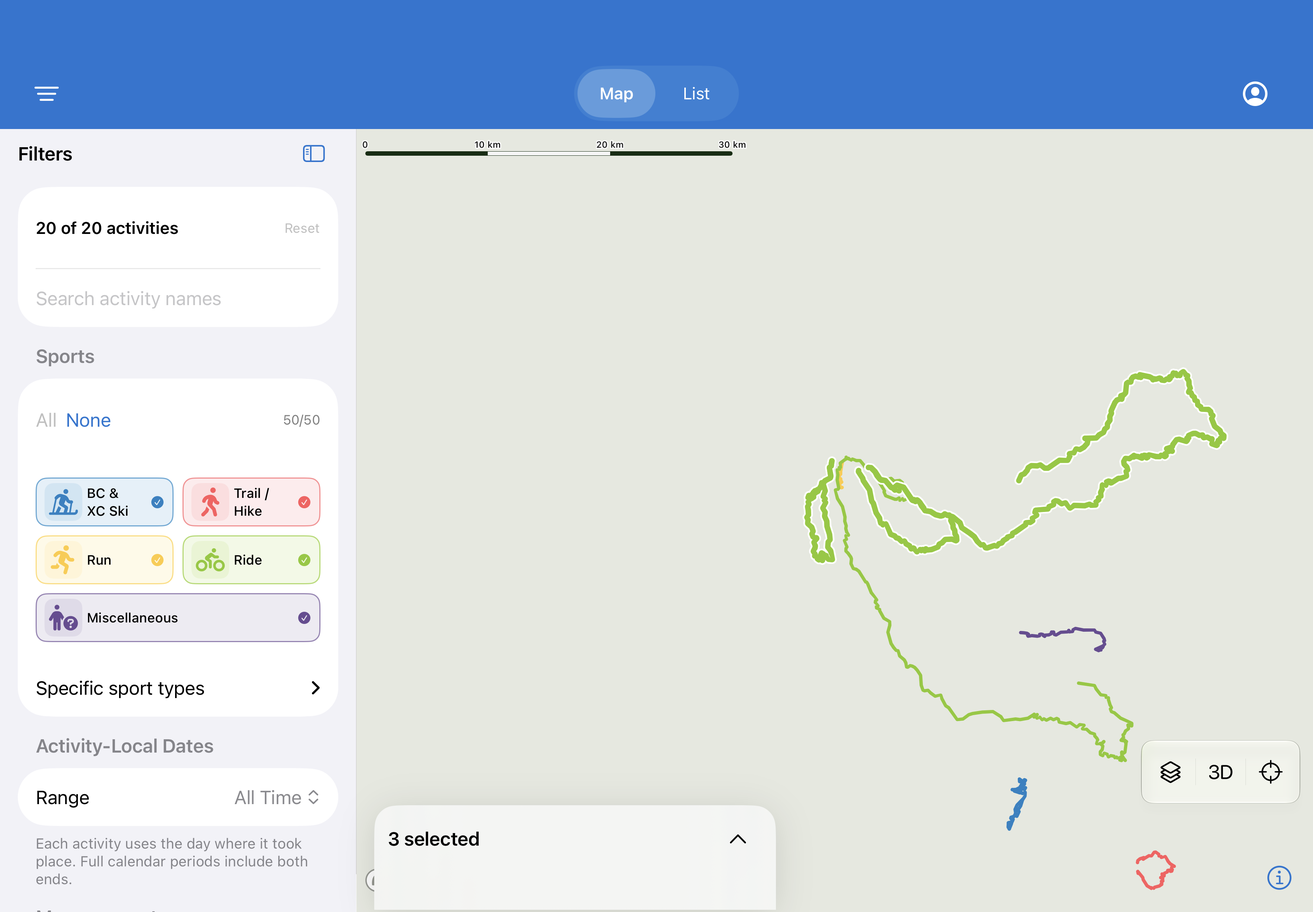
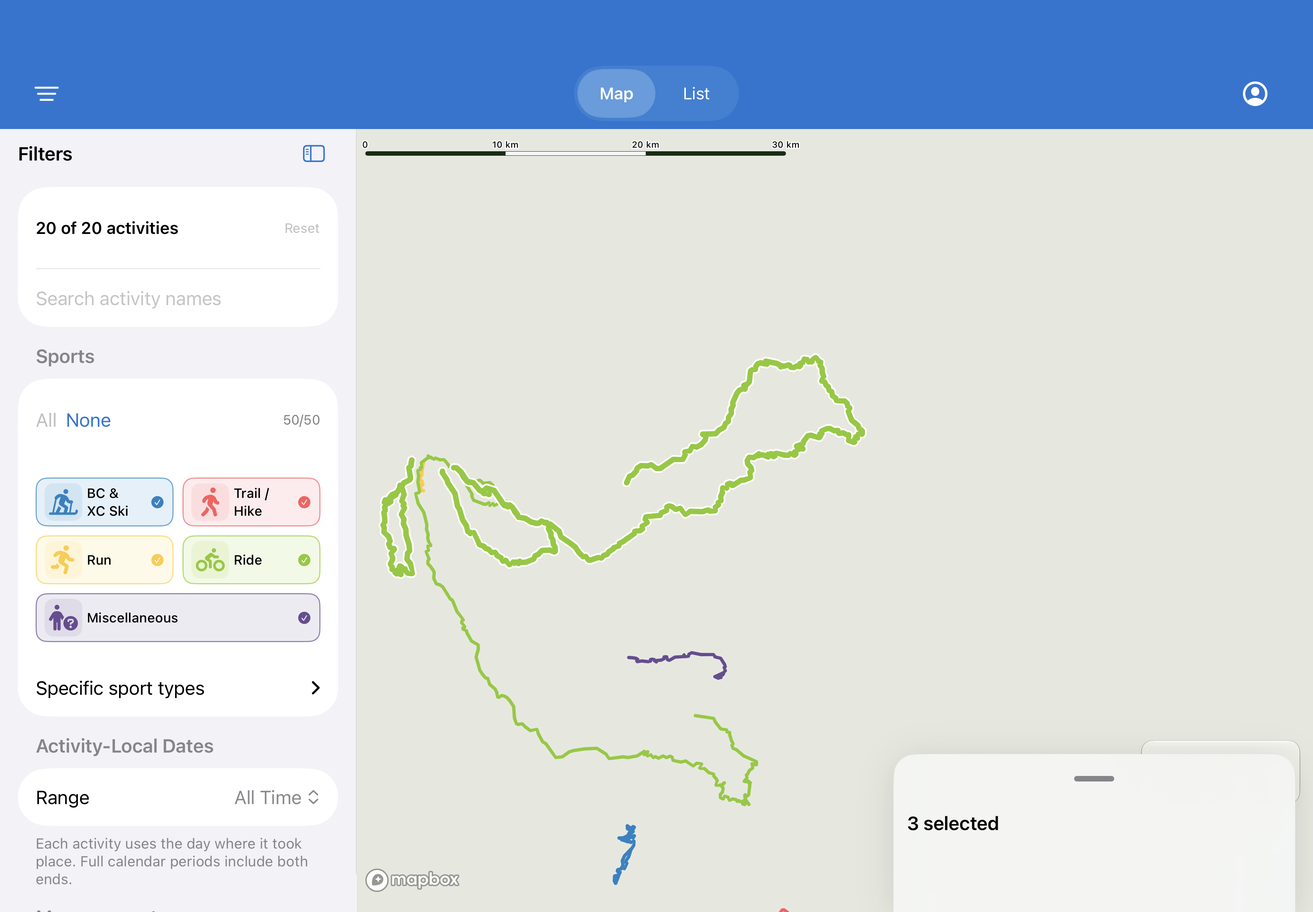
Use a bottom-right drag handle for wide map results

diff --git a/ios/ActivityMap/ActivityMap/Map/MapResultsContainer.swift b/ios/ActivityMap/ActivityMap/Map/MapResultsContainer.swift
@@ -1,6 +1,6 @@
 import SwiftUI
 
-/// Phones use the native sheet. Wide windows use a bottom-leading card; expanding
+/// Phones use the native sheet. Wide windows use a bottom-trailing panel; expanding
 /// the card never changes selection, scroll context or the map camera.
 struct MapResultsContainer: View {
     @Bindable var picker: RoutePicker
@@ -10,21 +10,61 @@ struct MapResultsContainer: View {
     let bottomInset: CGFloat
     let largeText: Bool
     @Environment(\.accessibilityReduceMotion) private var reduceMotion
+    @GestureState private var dragTranslation: CGFloat? = nil
 
     var body: some View {
         let layout = MapResultsLayout(size: size, topInset: topInset, bottomInset: bottomInset,
                                       detent: picker.detent, largeText: largeText)
         if layout.isSidePanel {
             if picker.isPresented {
-                RoutePickerSheet(picker: picker, store: store, isSidePanel: true, bottomInset: bottomInset)
-                    .frame(width: layout.frame.width, height: layout.frame.height)
-                    .position(x: layout.frame.midX, y: layout.frame.midY)
+                let compact = MapResultsLayout(size: size, topInset: topInset, bottomInset: bottomInset,
+                    detent: .compact, largeText: largeText).contentHeight
+                let expanded = MapResultsLayout(size: size, topInset: topInset, bottomInset: bottomInset,
+                    detent: .expanded, largeText: largeText).contentHeight
+                let height = MapResultsSnap.height(start: layout.contentHeight,
+                    translation: dragTranslation ?? 0, compact: compact, expanded: expanded)
+                RoutePickerSheet(picker: picker, store: store, isSidePanel: true, bottomInset: bottomInset,
+                    collapsedOverride: height <= compact + 1,
+                    panelHandle: AnyView(handle(start: layout.contentHeight, compact: compact, expanded: expanded)))
+                    .frame(width: layout.frame.width, height: height + bottomInset)
+                    .position(x: layout.frame.midX, y: size.height - height / 2 + bottomInset / 2)
                     .animation(reduceMotion ? nil : .easeInOut(duration: 0.2), value: picker.detent)
+                    .animation(reduceMotion ? nil : .easeInOut(duration: 0.2), value: dragTranslation == nil)
+                    .transaction { if dragTranslation != nil { $0.animation = nil } }
             }
         } else {
             NativeMapResultsSheet(picker: picker, store: store, size: size, largeText: largeText)
         }
     }
+
+    private func handle(start: CGFloat, compact: CGFloat, expanded: CGFloat) -> some View {
+        Capsule().fill(.secondary).frame(width: 36, height: 5)
+            .frame(maxWidth: .infinity).frame(height: 44)
+            .contentShape(Rectangle())
+            .gesture(DragGesture(minimumDistance: 3)
+                .updating($dragTranslation) { value, state, _ in state = value.translation.height }
+                .onEnded { value in
+                    picker.detent = MapResultsSnap.target(start: start,
+                        predictedTranslation: value.predictedEndTranslation.height,
+                        compact: compact, expanded: expanded)
+                })
+            .onTapGesture { picker.detent = picker.detent == .compact ? .expanded : .compact }
+            .accessibilityElement()
+            .accessibilityLabel("Results panel")
+            .accessibilityValue(picker.detent == .compact ? "Collapsed" : "Expanded")
+            .accessibilityHint("Drag up to expand or down to collapse")
+            .accessibilityIdentifier("map-results-handle")
+            .accessibilityAdjustableAction { direction in
+                switch direction {
+                case .increment: picker.detent = .expanded
+                case .decrement: picker.detent = .compact
+                @unknown default: break
+                }
+            }
+            .accessibilityAction(named: "Expand results") { picker.detent = .expanded }
+            .accessibilityAction(named: "Collapse results") { picker.detent = .compact }
+    }
+
 }
 
 private struct MapResultsPresentationChangedKey: EnvironmentKey {

diff --git a/ios/ActivityMap/ActivityMapTests/MapResultsTests.swift b/ios/ActivityMap/ActivityMapTests/MapResultsTests.swift
@@ -43,6 +43,16 @@ struct MapResultsTests {
         #expect(!picker.isPresented && picker.detailID == nil && picker.candidateIDs.isEmpty)
     }
 
+    @Test func dragSnapsFromBothRestingPositionsAndClampsOvershoot() {
+        #expect(MapResultsSnap.height(start: 108, translation: 500, compact: 108, expanded: 700) == 108)
+        #expect(MapResultsSnap.height(start: 700, translation: -500, compact: 108, expanded: 700) == 700)
+        #expect(MapResultsSnap.height(start: 700, translation: 100, compact: 108, expanded: 700) == 600)
+        #expect(MapResultsSnap.target(start: 108, predictedTranslation: -450, compact: 108, expanded: 700) == .expanded)
+        #expect(MapResultsSnap.target(start: 700, predictedTranslation: 450, compact: 108, expanded: 700) == .compact)
+        #expect(MapResultsSnap.target(start: 700, predictedTranslation: 40, compact: 108, expanded: 700) == .expanded)
+        #expect(MapResultsSnap.target(start: 108, predictedTranslation: -40, compact: 108, expanded: 700) == .compact)
+    }
+
     @Test func hiddenSelectionIsDisclosedWithoutReactivatingAfterFilterReset() {
         let store = ActivityStore(activities: [ActivityStoreSelectionTests.activity(1, sport: .ride)])
         let picker = RoutePicker()
@@ -67,7 +77,8 @@ struct MapResultsTests {
                 }
                 #expect(layouts[0].contentHeight < layouts[1].contentHeight)
                 #expect(layouts[1].frame == layouts[2].frame)
-                #expect(layouts.allSatisfy { $0.bottomOcclusion == 0 && $0.leadingOcclusion == layouts[0].leadingOcclusion })
+                #expect(layouts.allSatisfy { abs($0.frame.maxX - (size.width - 16)) < 0.01 })
+                #expect(layouts.allSatisfy { $0.bottomOcclusion == 0 && $0.trailingOcclusion == layouts[0].trailingOcclusion })
                 #expect(layouts.allSatisfy { $0.frame.maxY == size.height + 21 }, "Both states meet the physical bottom edge through the safe area")
                 #expect(layouts[0].frame.minY > layouts[1].frame.minY, "Expansion moves the top edge upward")
                 let fit = MapResultsLayout.framing(size: size, topInset: 44, bottomInset: 21, detent: .compact, largeText: largeText)
@@ -96,11 +107,11 @@ struct MapResultsTests {
             #expect(layout.frame.minY >= 118 && layout.frame.maxY <= size.height + 34)
             #expect(layout.frame.minX >= (layout.isSidePanel ? 12 : 4) && layout.frame.maxX <= size.width)
             if layout.isSidePanel {
-                #expect(layout.leadingOcclusion + 16 < size.width / 2)
+                #expect(layout.trailingOcclusion + 16 < size.width / 2)
                 #expect(layout.bottomOcclusion == 0)
             } else {
                 #expect(layout.frame.minY >= 118, "Expanded results leave navigation clear")
-                #expect(layout.leadingOcclusion == 0)
+                #expect(layout.trailingOcclusion == 0)
             }
         }
     }

diff --git a/ios/ActivityMap/ActivityMap/Map/RoutePickerSheet.swift b/ios/ActivityMap/ActivityMap/Map/RoutePickerSheet.swift
@@ -7,6 +7,7 @@ struct RoutePickerSheet: View {
     let isSidePanel: Bool
     var bottomInset: CGFloat = 0
     var collapsedOverride: Bool? = nil
+    var panelHandle: AnyView? = nil
     private var expansion: CGFloat { collapsed ? 0 : 1 }
     private var contentReveal: CGFloat { expansion }
     var nativePresentation = false
@@ -22,7 +23,10 @@ struct RoutePickerSheet: View {
     private var singleDetail: Bool { detail != nil && candidates.count == 1 }
     var body: some View {
         VStack(spacing: 0) {
-            if isSidePanel { sidePanelHeader } else { header }
+            if isSidePanel {
+                panelHandle
+                if !singleDetail || collapsed { sidePanelHeader }
+            } else { header }
             if detail == nil && !isSidePanel {
                 compactSummary
                     .opacity(max(0, 1 - expansion * 4))
@@ -52,6 +56,7 @@ struct RoutePickerSheet: View {
         }
         // One continuous detail surface; only the outer host owns corners.
         .padding(.bottom, bottomInset)
+        .frame(maxHeight: .infinity, alignment: .top)
         .background { if !nativePresentation { Rectangle().fill(.regularMaterial) } }
         .clipShape(UnevenRoundedRectangle(topLeadingRadius: isSidePanel ? 20 : 28,
             bottomLeadingRadius: 0, bottomTrailingRadius: 0,
@@ -99,17 +104,6 @@ struct RoutePickerSheet: View {
                 Spacer(minLength: 0)
                 if candidates.count > 1, let detail { detailNavigation(detail) }
             }
-            Button { resize(to: collapsed ? .expanded : .compact) } label: {
-                Image(systemName: collapsed ? "chevron.up" : "chevron.down")
-                    .frame(width: 44, height: 44)
-                    .contentShape(Rectangle())
-            }
-            .buttonStyle(.plain)
-            .accessibilityLabel(collapsed ? "Expand results" : "Collapse results")
-            .accessibilityValue(collapsed ? "Collapsed" : "Expanded")
-            .accessibilityIdentifier("map-results-toggle")
-            .accessibilityAction(named: "Expand results") { resize(to: .expanded) }
-            .accessibilityAction(named: "Collapse results") { resize(to: .compact) }
             if detail == nil && !collapsed { selectionActions }
         }
         .padding(.horizontal, 12).padding(.vertical, 8)

diff --git a/ios/ActivityMap/ActivityMapTests/RenderedMapContextTests.swift b/ios/ActivityMap/ActivityMapTests/RenderedMapContextTests.swift
@@ -257,7 +257,8 @@ extension RenderedRoutePickingTests {
         #expect(abs(list.contentOffset.y - offset) < 1)
     }
 
-    @Test func fixedPanelFitsBesideRoutesInTheWideShell() async throws {
+    @Test(arguments: [false, true])
+    func fixedPanelFitsBesideRoutesInTheWideShell(single: Bool) async throws {
         let oldToken = MapboxOptions.accessToken
         MapboxOptions.accessToken = "pk.offline-test"
         defer { MapboxOptions.accessToken = oldToken }
@@ -284,14 +285,14 @@ extension RenderedRoutePickingTests {
         try await cameraWait { descendants(host.view, of: MapView.self).first?.mapboxMap.isStyleLoaded == true }
         let map = try #require(descendants(host.view, of: MapView.self).first)
         #expect(map.bounds.width >= 650)
-        store.replaceSelection(with: [20279947341, 20270725942, 20244330171])
+        store.replaceSelection(with: single ? [20279947341] : [20279947341, 20270725942, 20244330171])
         picker.reviewSelection(store: store)
         picker.detent = .expanded
         store.mapContext.request(.fitSelection)
         try await cameraWait { store.mapContext.pendingRequest == nil }
         try await Task.sleep(for: .milliseconds(500))
         let camera = map.mapboxMap.cameraState
-        #expect(camera.padding.left > 300, "Framing reserves the actual edge panel")
+        #expect(camera.padding.right > 300, "Framing reserves the actual edge panel")
         #expect(host.presentedViewController == nil, "Wide results remain at the map edge")
         let directory = URL(fileURLWithPath: "/tmp/activitymap-navigation-preview")
         try FileManager.default.createDirectory(at: directory, withIntermediateDirectories: true)
@@ -304,7 +305,7 @@ extension RenderedRoutePickingTests {
             let image = UIGraphicsImageRenderer(bounds: host.view.bounds).image { _ in
                 host.view.drawHierarchy(in: host.view.bounds, afterScreenUpdates: true)
             }
-            try image.pngData()?.write(to: directory.appendingPathComponent("wide-shell-\(detent == .compact ? "collapsed" : "expanded").png"))
+            try image.pngData()?.write(to: directory.appendingPathComponent("wide-shell-\(single ? "single-" : "")\(detent == .compact ? "collapsed" : "expanded").png"))
         }
     }
 }

diff --git a/ios/ActivityMap/ActivityMap/Map/MapResultsLayout.swift b/ios/ActivityMap/ActivityMap/Map/MapResultsLayout.swift
@@ -10,7 +10,7 @@ struct MapResultsLayout {
     let contentHeight: CGFloat
     let frame: CGRect
     let bottomOcclusion: CGFloat
-    let leadingOcclusion: CGFloat
+    let trailingOcclusion: CGFloat
 
     /// Explicit fits leave room to reveal normal detail after a compact fit.
     /// Resizing itself never changes the camera or queues another fit.
@@ -33,7 +33,7 @@ struct MapResultsLayout {
         // bottom edge behind this panel instead of reserving another top row.
         let top = topInset + 12
         let available = max(120, size.height - top - (isSidePanel ? 0 : 12))
-        let compact = min(available, isSidePanel ? (largeText ? 116 : 64) : (largeText ? 240 : 156))
+        let compact = min(available, isSidePanel ? (largeText ? 160 : 108) : (largeText ? 240 : 156))
         let height: CGFloat
         switch detent {
         case .compact: height = compact
@@ -43,9 +43,21 @@ struct MapResultsLayout {
         contentHeight = height
         // Both hosts rise from the bottom. On wide maps the lower edge stays
         // anchored while the header moves upward to reveal the results.
-        frame = CGRect(x: isSidePanel ? 16 : 4, y: size.height - contentHeight,
+        frame = CGRect(x: isSidePanel ? max(0, size.width - width - 16) : 4, y: size.height - contentHeight,
                        width: width, height: contentHeight + bottomInset)
         bottomOcclusion = isSidePanel ? 0 : contentHeight + bottomInset
-        leadingOcclusion = isSidePanel ? frame.maxX + 12 : 0
+        trailingOcclusion = isSidePanel ? size.width - frame.minX + 12 : 0
+    }
+}
+
+/// Drag distance is measured from the current resting height, including when
+/// starting expanded. Predicted movement lets a short flick reach a snap point.
+enum MapResultsSnap {
+    static func height(start: CGFloat, translation: CGFloat, compact: CGFloat, expanded: CGFloat) -> CGFloat {
+        min(expanded, max(compact, start - translation))
+    }
+    static func target(start: CGFloat, predictedTranslation: CGFloat, compact: CGFloat, expanded: CGFloat) -> MapResultsDetent {
+        height(start: start, translation: predictedTranslation, compact: compact, expanded: expanded)
+            < (compact + expanded) / 2 ? .compact : .expanded
     }
 }

diff --git a/ios/ActivityMap/ActivityMap/Map/RouteCameraFitter.swift b/ios/ActivityMap/ActivityMap/Map/RouteCameraFitter.swift
@@ -50,9 +50,9 @@ struct RouteExtent {
 
 enum RouteCameraFitter {
     static func padding(safeArea: UIEdgeInsets, sheetHeight: CGFloat, topOcclusion: CGFloat = 0,
-                        leadingOcclusion: CGFloat = 0) -> UIEdgeInsets {
+                        leadingOcclusion: CGFloat = 0, trailingOcclusion: CGFloat = 0) -> UIEdgeInsets {
         UIEdgeInsets(top: max(safeArea.top + 64, topOcclusion + 16), left: max(safeArea.left + 24, leadingOcclusion + 16),
-                     bottom: max(safeArea.bottom + 80, sheetHeight + 24), right: safeArea.right + 80)
+                     bottom: max(safeArea.bottom + 80, sheetHeight + 24), right: max(safeArea.right + 80, trailingOcclusion + 16))
     }
 
     static func camera(extent: RouteExtent, map: MapboxMap, padding: UIEdgeInsets, size: CGSize,
@@ -82,7 +82,7 @@ enum RouteCameraFitter {
 enum MapNavigation {
     static func resolve(store: ActivityStore, map: MapboxMap, size: CGSize,
                         safeArea: UIEdgeInsets, sheetHeight: CGFloat, topOcclusion: CGFloat = 0,
-                        leadingOcclusion: CGFloat = 0) -> CameraOptions? {
+                        leadingOcclusion: CGFloat = 0, trailingOcclusion: CGFloat = 0) -> CameraOptions? {
         let context = store.mapContext
         guard let request = context.pendingRequest, map.isStyleLoaded,
               size.width > 0, size.height > 0 else { return nil }
@@ -123,7 +123,7 @@ enum MapNavigation {
             context.consume(request); return nil
         }
         let padding = RouteCameraFitter.padding(safeArea: safeArea, sheetHeight: sheetHeight, topOcclusion: topOcclusion,
-                                                leadingOcclusion: leadingOcclusion)
+                                                leadingOcclusion: leadingOcclusion, trailingOcclusion: trailingOcclusion)
         // Wait if the remaining viewport is unusable. The visible rectangle
         // may sit entirely above the physical map center (e.g. a medium sheet).
         guard size.width - padding.left - padding.right >= 80,

diff --git a/ios/ActivityMap/ActivityMap/Map/MapScreen.swift b/ios/ActivityMap/ActivityMap/Map/MapScreen.swift
@@ -182,7 +182,7 @@ struct MapScreen: View {
             // Fit above the panel; background controls and credits add no occlusion.
             sheetHeight: showingResults && !layout.isSidePanel
                 ? max(layout.bottomOcclusion, NativeMapResultsSizing.openingHeight(count: picker.candidateIDs.count, detail: picker.detailID != nil, height: geometry.size.height, largeText: typeSize.isAccessibilitySize) + safeArea.bottom) : 0, topOcclusion: topOcclusion,
-            leadingOcclusion: showingResults && layout.isSidePanel ? layout.leadingOcclusion + safeArea.leading : 0
+            trailingOcclusion: showingResults && layout.isSidePanel ? layout.trailingOcclusion + safeArea.trailing : 0
         ) else { return }
         let padding = camera.padding ?? context.camera.padding
         let target = Viewport.camera(center: camera.center, zoom: camera.zoom, bearing: camera.bearing, pitch: camera.pitch)

diff --git a/ios/ActivityMap/ActivityMapTests/RenderedMapResultsTests.swift b/ios/ActivityMap/ActivityMapTests/RenderedMapResultsTests.swift
@@ -87,7 +87,7 @@ extension RenderedRoutePickingTests {
             let points = map.mapboxMap.points(for: activities[0].coordinates)
             let layout = MapResultsLayout(size: host.view.bounds.size, topInset: 62, bottomInset: host.view.safeAreaInsets.bottom, detent: .compact)
             if layout.isSidePanel {
-                #expect(points.allSatisfy { $0.x > layout.frame.maxX })
+                #expect(points.allSatisfy { $0.x < layout.frame.minX }, "Fit must leave routes to the left of the right-hand panel")
             } else {
                 #expect(points.allSatisfy { $0.y < layout.frame.minY - 16 }, "Fit must leave routes above the panel")
             }

diff --git a/docs/ios-navigation-identity-review.md b/docs/ios-navigation-identity-review.md
@@ -2,16 +2,16 @@
 
 Review for #254, #272 and #279, captured on 2026-10-03.
 
-The branch compacts the shared filter editor, adds the retained Stats destination/filter handoff, unifies brand and selection styling, and replaces wide-map custom dragging with an explicit bottom-leading panel.
+The branch compacts the shared filter editor, adds the retained Stats destination/filter handoff, unifies brand and selection styling, and replaces wide-map custom dragging with an explicit bottom-right panel.
 
 ## Decisions and scope
 
 - **#254:** keep the current single top destination control from #278; remove the unused older header/sidebar view. Search and count/reset share one section. Compact-height and accessibility filter presentations have full height and an explicit Done action. The shared editor retains all existing predicates, range validation and reset semantics.
 - **Stats handoff:** #263 registers real content with `AppShell(statsContent:)`. Only registration exposes Stats; the production app continues to offer Map/List. Registered content stays mounted with map/list and resets on account scope changes. Stats uses the existing non-date predicates and engine count, shows tile-period context and saved browsing dates, and resets non-date filters without deleting those dates.
 - **#272:** use #1976D2 as the brand blue, with #90CAF9 foregrounds on dark surfaces. The global accent asset now also styles native controls. Shared sport badges retain category glyphs/colors; selected rows add checkmarks and restrained blue surfaces, with a leading mark in List. Independent inspection does not select a row.
-- **#279:** the owner chose the bottom-leading panel with collapse/expand on 2026-10-03. Wide-map medium/expanded states both use full available height; compact shows the header at the bottom-left. The panel extends through the bottom safe area, with square lower corners and inset content; its bottom stays anchored at the physical bottom edge while expansion moves the top upward. The owner refined the placement after reviewing screenshots; collapse/expand controls remain, with upward/downward chevrons and a Reduce Motion-aware transition. A 44pt button and named accessibility actions replace custom dragging. Scroll, detail/page identity, selection and camera are retained. Explicit fits reserve the full leading footprint; collapse/expand do not refit.
+- **#279:** the owner refined the design to a bottom-right, edge-attached draggable panel on 2026-10-03. It has square lower corners and rounded top corners, with content inset above the home indicator. A 44pt handle tracks vertical dragging and snaps between collapsed and expanded heights, using predicted movement for flicks. There is no expand button; the handle supports tap, VoiceOver adjustment and named expand/collapse actions. Medium/expanded model states both use full available height. Dragging starts from the current height, clamps overshoot, and resets when cancelled. Results/detail remain mounted and the camera does not refit during resizing. Explicit fits reserve the trailing footprint. Layer controls remain in their existing position for their separate issue.
 
-Host choice still uses the **available map viewport**, not the device name: ≥650pt width or landscape uses the bottom-leading card. A portrait iPad with the 320pt Filters sidebar open can leave a narrow map that uses the native sheet. No centered native sheet replaces the existing wide edge layout.
+Host choice still uses the **available map viewport**, not the device name: ≥650pt width or landscape uses the bottom-right card. A portrait iPad with the 320pt Filters sidebar open can leave a narrow map that uses the native sheet. No centered native sheet replaces the existing wide edge layout.
 
 The original native-tab-bar design and acceptance of the remaining #278 shell/filter drafts are not claimed complete here. The working Stats dashboard remains #263. Phone collapsed-summary and transition refinements remain #285/#284; map-control placement remains #282. Physical-device touch/VoiceOver acceptance remains #228.
 
@@ -31,17 +31,23 @@ Captured with Xcode 27.0 / iOS 27.0 Simulator on iPhone 18 Pro. Configured host 
 
 The Filters gallery scene renders editor content directly; it does not demonstrate the shell's Done button or modal animation. The rendered compact-height shell regression covers presentation/dismissal separately.
 
+Single selection opens activity details directly. The following single-activity captures use the same shell and fixture.
+
+| Expanded | Collapsed |
+| --- | --- |
+| ![Single activity expanded](ios-navigation-identity/wide-shell-single-expanded.png) | ![Single activity collapsed](ios-navigation-identity/wide-shell-single-collapsed.png) |
+
 The 1180×820 production shell with Filters open leaves an 860pt map and uses the fixed panel. These synthetic-window captures exercise the actual shell, route renderer and camera fit, then collapse without changing the camera:
 
 | Expanded | Collapsed |
 | --- | --- |
 | ![Wide shell expanded](ios-navigation-identity/wide-shell-expanded.png) | ![Wide shell collapsed](ios-navigation-identity/wide-shell-collapsed.png) |
 
[2 lines of base64/hex data omitted]
 
 ## Validation
 
-Final run: **217 tests passed (345 parameterized runs), zero failures, two opt-in tests skipped** on iPhone 18 Pro / iOS 27.0 Simulator. Result bundle: `/tmp/activitymap-navigation-build/Logs/Test/Test-ActivityMap-2026.10.03_08-23-19-+0200.xcresult`. Both 20-capture galleries validated successfully. `git diff --check` passes.
+Final run: **218 tests passed (347 parameterized runs), zero failures, two opt-in tests skipped** on iPhone 18 Pro / iOS 27.0 Simulator. Result bundle: `/tmp/activitymap-navigation-build/Logs/Test/Test-ActivityMap-2026.10.03_08-35-57-+0200.xcresult`. Both 20-capture galleries validated successfully. `git diff --check` passes.
 
 Run the complete simulator suite:
 
@@ -51,7 +57,7 @@ xcodebuild test -project ios/ActivityMap/ActivityMap.xcodeproj \
   -parallel-testing-enabled NO CODE_SIGNING_ALLOWED=NO
 ```
 
-Coverage includes fixed-panel collapse/page retention in tablet, landscape and large text; stable camera occlusion; shared filter reset and saved dates; actual retained map renderer/List scroll/Stats scroll through the shell; full filter predicates and existing detail/selection behavior. Custom drag/reveal-only tests were removed with their implementation.
+Coverage includes drag snap prediction/clamping, right-side camera fitting, single-activity capture, and panel collapse/page retention in tablet, landscape and large text; stable camera occlusion; shared filter reset and saved dates; actual retained map renderer/List scroll/Stats scroll through the shell; full filter predicates and existing detail/selection behavior. The previous drag/reveal tests were removed with that implementation; the current two-position handle has dedicated snap tests.
 
 The existing 2,000-row List round-trip test now waits for adjacent-detail width and lazy row-height estimates to settle before recording its offset. It still asserts exact offset retention after switching destinations. The former fixed 200ms wait intermittently sampled the layout correction itself.
 

diff --git a/docs/ios-ui-components.md b/docs/ios-ui-components.md
@@ -5,7 +5,7 @@
 - The single top destination control from #278 remains in use. `AppShell(statsContent:)` registers a real `BrowseStatsDestination` for #263; without it, no Stats button appears. `BrowseContent` retains all registered destinations and resets their identity on account/deployment scope changes.
 - `FilterPanel(scope:)` reuses the same editors for browsing and Stats. Stats uses the engine’s non-date count, excludes browsing dates from active-filter feedback, and routes Reset through `resetStatsActivityFilters`. Its period explanation discloses saved browsing dates without applying them. Search/count/reset share a compact section. The shell supplies a Done button and a full-height presentation for landscape phones and accessibility text.
 - `AccentColor` is the global system tint and explicit selection accent: #1976D2 on light surfaces, #90CAF9 on dark surfaces. The navigation background remains #1976D2. Shared sport badges have 26pt symbols within 34pt softly tinted shapes. Selected List rows add a leading mark and a checkmark; Map results retain a checkmark and separate active-route label. Inspection remains independent.
-- The approved wide-screen behavior is a bottom-leading panel with explicit collapse/expand, not a draggable panel. Portrait phones retain their system sheet. See Map results and detail below.
+- The approved wide-screen behavior is a bottom-right, edge-attached panel with a draggable handle, two snap positions and no expand button. Portrait phones retain their system sheet. See Map results and detail below.
 - The unused HeaderBar and FilterSidebar view wrapper are removed. The sidebar environment value remains the List detail-host input.
 
 The original component and capture notes below are historical where explicitly marked. Continuous-drag captures and regressions describe the removed implementation; current evidence is recorded in `docs/ios-navigation-identity-review.md`.
@@ -57,7 +57,7 @@ Map results navigate to the same detail panel and fixed actions in one continuou
 Two hosts present this content (`MapResultsContainer`):
 
 - **Phone portrait — native sheet (draft, #278).** `NativeMapResultsSheet` presents `RoutePickerSheet` with system detents (collapsed summary, content-aware opening height, `.large`), a visible drag indicator, background interaction up through large, and interactive dismissal disabled. See [Native phone map sheet draft](#native-phone-map-sheet-draft). The custom handle is not mounted in this host.
-- **Wide/landscape — bottom-leading panel (#279).** Used when the map is ≥650pt wide or landscape. A 44pt button collapses to a bottom-left header or expands upward to the full available height. Both states share the same bottom edge, at the physical bottom edge, with a Reduce Motion-aware transition. Medium and expanded model detents both mean full height on this host. The custom MapResultsHandle, MapResultsDrag, resize state, interpolation and their obsolete regression tests are removed. Results and detail pages remain mounted, including their scroll/paging context. Camera fits retain the same leading occlusion across collapse/expand, and changing height never emits a camera request. The owner selected this option on 2026-10-03.
+- **Wide/landscape — bottom-right panel (#279).** Used when the map is ≥650pt wide or landscape. A 44pt drag handle collapses to a header or expands upward to the full available height. It supports tapping, VoiceOver adjustment and named actions; no separate expand button is shown. Both states extend to the physical bottom edge through the safe area, with square lower corners and inset content. Medium and expanded model detents both mean full height. Dragging follows the current resting height, clamps overshoot and uses predicted movement to snap. Results and detail pages remain mounted. Explicit camera fits reserve the trailing footprint, and changing height never emits a camera request. The owner chose the position and handle-only design after reviewing screenshots on 2026-10-03.
 
 Map controls remain anchored at the viewport bottom-right across every results detent, behind the sheet/panel. Map no longer renders a separate provider-credit badge: all source credits use the SDK info menu, alongside its feedback and privacy/telemetry controls. The native Mapbox wordmark stays at bottom-left and the sole info button at bottom-right, at their normal map positions behind results, including wide side panels. Source attribution remains on raster base/overlay sources and is read from vector source metadata. [Mapbox requires the visible wordmark](https://docs.mapbox.com/help/dive-deeper/attribution/), including on third-party maps; [Swisstopo accepts centrally accessible source references](https://www.swisstopo.admin.ch/en/faq-free-geodata). Fully replacing the native info menu requires Mapbox review.
 
@@ -144,7 +144,7 @@ Filters occupy the leading navigation position, aligned with the iPad sidebar, a
 
 ## Native phone map sheet draft
 
-Portrait phone results use system presentation detents with background map interaction enabled. The collapsed summary, content-aware opening detent and large detent replace handle-only custom dragging. Opening height uses selected-route count with a half-height cap; detail starts around 300pt (larger for accessibility text). Manual compact/large choices survive content changes. Filters/account presentations temporarily suppress the map sheet, and changing tabs retains selection. Wide/landscape layouts use the bottom-leading panel described above. Native gesture feel and map/paging interaction still require device review.
+Portrait phone results use system presentation detents with background map interaction enabled. The collapsed summary, content-aware opening detent and large detent replace handle-only custom dragging. Opening height uses selected-route count with a half-height cap; detail starts around 300pt (larger for accessibility text). Manual compact/large choices survive content changes. Filters/account presentations temporarily suppress the map sheet, and changing tabs retains selection. Wide/landscape layouts use the bottom-right panel described above. Native gesture feel and map/paging interaction still require device review.
 
 ## Shell sheet handoff
 
